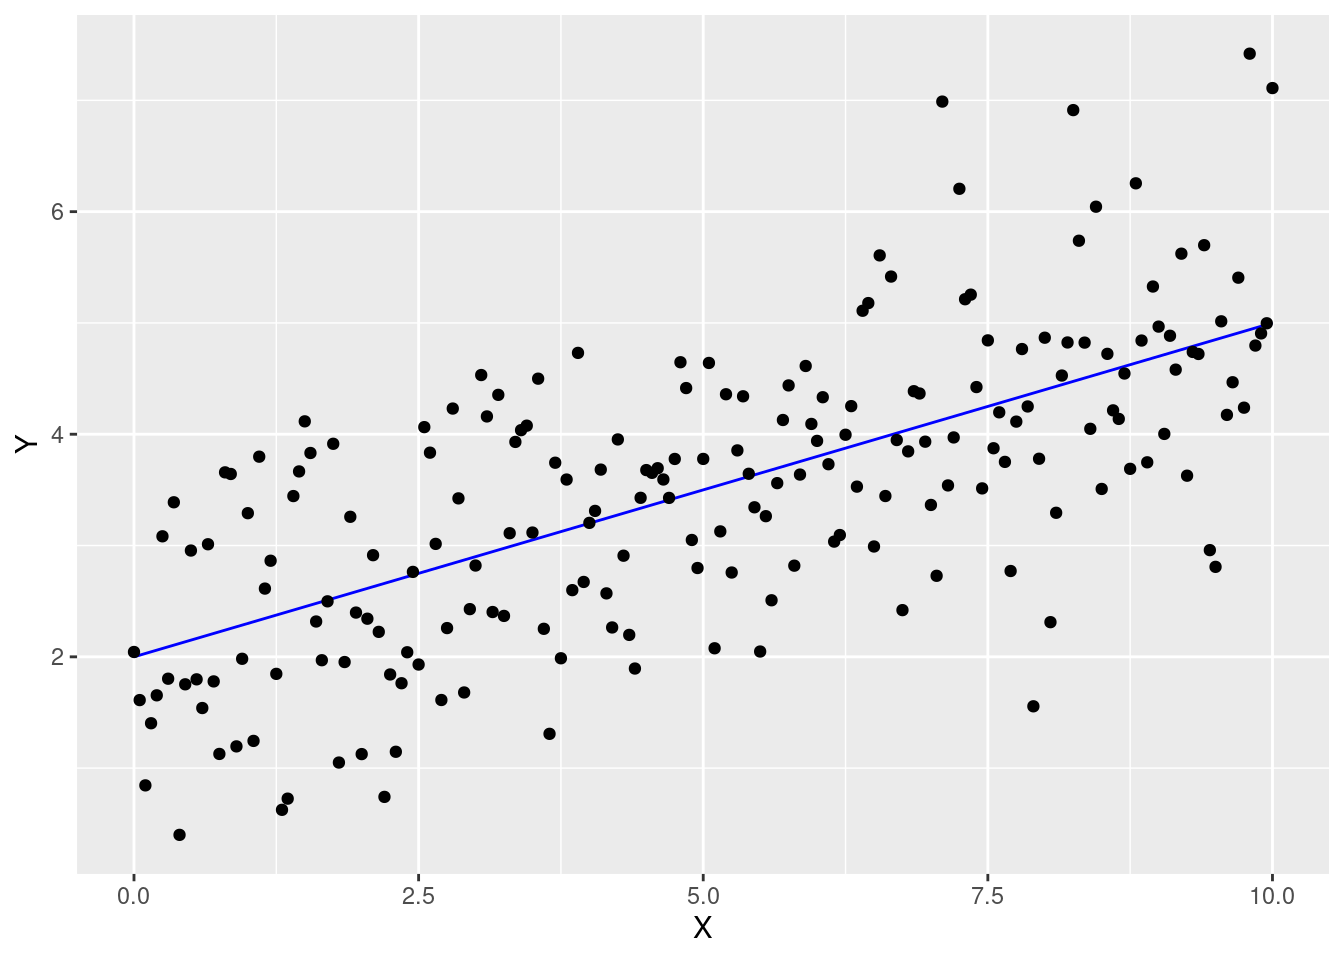
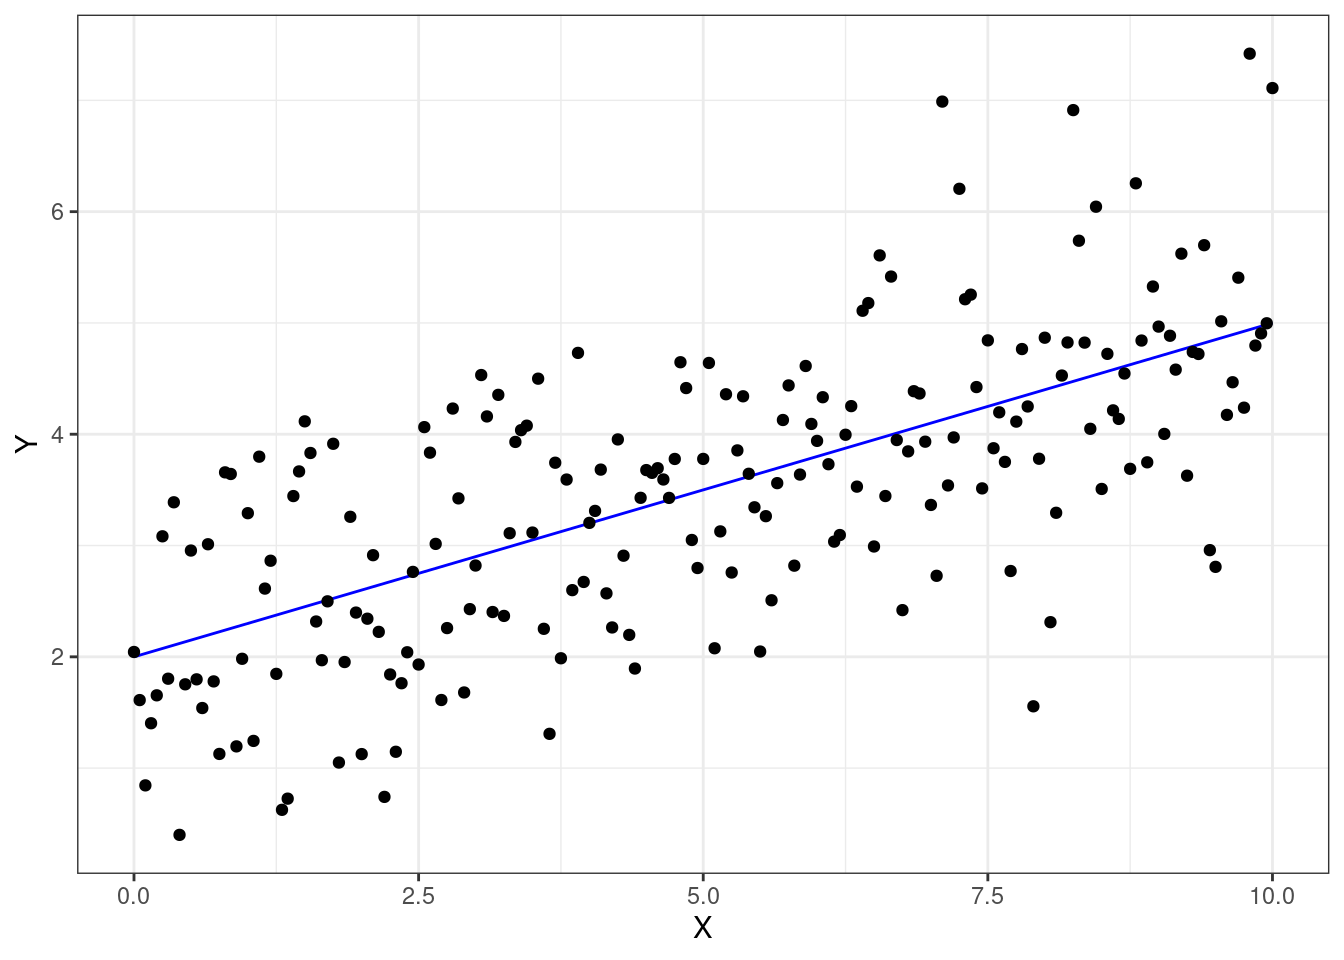
Correção da formatação do lab 1

diff --git a/docs/comandos-básicos-para-programação-com-r.html b/docs/comandos-básicos-para-programação-com-r.html
@@ -4,18 +4,18 @@
 
   <meta charset="utf-8" />
   <meta http-equiv="X-UA-Compatible" content="IE=edge" />
-  <title>Lab 1 Comandos básicos para programação com R | Estattśitica e Probabilidade para Finanças</title>
-  <meta name="description" content="Lab 1 Comandos básicos para programação com R | Estattśitica e Probabilidade para Finanças" />
+  <title>Lab 1 Comandos básicos para programação com R | Estatística e Probabilidade para Finanças</title>
+  <meta name="description" content="Lab 1 Comandos básicos para programação com R | Estatística e Probabilidade para Finanças" />
   <meta name="generator" content="bookdown 0.34 and GitBook 2.6.7" />
 
-  <meta property="og:title" content="Lab 1 Comandos básicos para programação com R | Estattśitica e Probabilidade para Finanças" />
+  <meta property="og:title" content="Lab 1 Comandos básicos para programação com R | Estatística e Probabilidade para Finanças" />
   <meta property="og:type" content="book" />
   
   
   
 
   <meta name="twitter:card" content="summary" />
-  <meta name="twitter:title" content="Lab 1 Comandos básicos para programação com R | Estattśitica e Probabilidade para Finanças" />
+  <meta name="twitter:title" content="Lab 1 Comandos básicos para programação com R | Estatística e Probabilidade para Finanças" />
   
   
   
@@ -137,7 +137,7 @@ code span.wa { color: #60a0b0; font-weight: bold; font-style: italic; } /* Warni
       <nav role="navigation">
 
 <ul class="summary">
-<li><a href="./">SHORT TITLE HERE</a></li>
+<li><a href="./">Estatística e Probabilidade para Finanças</a></li>
 
 <li class="divider"></li>
 <li class="chapter" data-level="" data-path="index.html"><a href="index.html"><i class="fa fa-check"></i>Informações preliminares</a></li>
@@ -163,7 +163,7 @@ code span.wa { color: #60a0b0; font-weight: bold; font-style: italic; } /* Warni
       <div class="body-inner">
         <div class="book-header" role="navigation">
           <h1>
-            <i class="fa fa-circle-o-notch fa-spin"></i><a href="./">Estattśitica e Probabilidade para Finanças</a>
+            <i class="fa fa-circle-o-notch fa-spin"></i><a href="./">Estatística e Probabilidade para Finanças</a>
           </h1>
         </div>
 
@@ -370,15 +370,16 @@ code span.wa { color: #60a0b0; font-weight: bold; font-style: italic; } /* Warni
 <span id="cb53-5"><a href="comandos-básicos-para-programação-com-r.html#cb53-5" aria-hidden="true" tabindex="-1"></a>eps <span class="ot">&lt;-</span> <span class="fu">rnorm</span>(<span class="dv">201</span>, <span class="at">mean =</span> <span class="dv">0</span>, <span class="at">sd =</span> <span class="dv">1</span>)</span>
 <span id="cb53-6"><a href="comandos-básicos-para-programação-com-r.html#cb53-6" aria-hidden="true" tabindex="-1"></a>Y <span class="ot">&lt;-</span> beta_0 <span class="sc">+</span> beta_1 <span class="sc">*</span> X</span></code></pre></div>
 <ol start="2" style="list-style-type: decimal">
-<li>Traçar os valores simulados.
-<strong>Resp.:</strong></li>
+<li>Traçar os valores simulados.</li>
 </ol>
+<p><strong>Resp.:</strong></p>
 <div class="sourceCode" id="cb54"><pre class="sourceCode r"><code class="sourceCode r"><span id="cb54-1"><a href="comandos-básicos-para-programação-com-r.html#cb54-1" aria-hidden="true" tabindex="-1"></a>df <span class="ot">&lt;-</span> <span class="fu">data.frame</span>(X, Y, eps)</span>
 <span id="cb54-2"><a href="comandos-básicos-para-programação-com-r.html#cb54-2" aria-hidden="true" tabindex="-1"></a></span>
 <span id="cb54-3"><a href="comandos-básicos-para-programação-com-r.html#cb54-3" aria-hidden="true" tabindex="-1"></a>df <span class="sc">%&gt;%</span></span>
 <span id="cb54-4"><a href="comandos-básicos-para-programação-com-r.html#cb54-4" aria-hidden="true" tabindex="-1"></a>  <span class="fu">ggplot</span>() <span class="sc">+</span></span>
 <span id="cb54-5"><a href="comandos-básicos-para-programação-com-r.html#cb54-5" aria-hidden="true" tabindex="-1"></a>    <span class="fu">geom_line</span>(<span class="fu">aes</span>(<span class="at">x=</span>X, <span class="at">y=</span>Y), <span class="at">colour=</span><span class="st">&quot;blue&quot;</span>)<span class="sc">+</span></span>
-<span id="cb54-6"><a href="comandos-básicos-para-programação-com-r.html#cb54-6" aria-hidden="true" tabindex="-1"></a>    <span class="fu">geom_point</span>(<span class="fu">aes</span>(<span class="at">x=</span>X, <span class="at">y=</span>Y<span class="sc">+</span>eps))</span></code></pre></div>
+<span id="cb54-6"><a href="comandos-básicos-para-programação-com-r.html#cb54-6" aria-hidden="true" tabindex="-1"></a>    <span class="fu">geom_point</span>(<span class="fu">aes</span>(<span class="at">x=</span>X, <span class="at">y=</span>Y<span class="sc">+</span>eps)) <span class="sc">+</span></span>
+<span id="cb54-7"><a href="comandos-básicos-para-programação-com-r.html#cb54-7" aria-hidden="true" tabindex="-1"></a>    <span class="fu">theme_bw</span>()</span></code></pre></div>
 <p><img src="main_files/figure-html/unnamed-chunk-26-1.png" width="672"  /></p>
 
 </div>

diff --git a/docs/index.html b/docs/index.html
@@ -4,18 +4,18 @@
 
   <meta charset="utf-8" />
   <meta http-equiv="X-UA-Compatible" content="IE=edge" />
-  <title>Estattśitica e Probabilidade para Finanças</title>
-  <meta name="description" content="Estattśitica e Probabilidade para Finanças" />
+  <title>Estatística e Probabilidade para Finanças</title>
+  <meta name="description" content="Estatística e Probabilidade para Finanças" />
   <meta name="generator" content="bookdown 0.34 and GitBook 2.6.7" />
 
-  <meta property="og:title" content="Estattśitica e Probabilidade para Finanças" />
+  <meta property="og:title" content="Estatística e Probabilidade para Finanças" />
   <meta property="og:type" content="book" />
   
   
   
 
   <meta name="twitter:card" content="summary" />
-  <meta name="twitter:title" content="Estattśitica e Probabilidade para Finanças" />
+  <meta name="twitter:title" content="Estatística e Probabilidade para Finanças" />
   
   
   
@@ -137,7 +137,7 @@ code span.wa { color: #60a0b0; font-weight: bold; font-style: italic; } /* Warni
       <nav role="navigation">
 
 <ul class="summary">
-<li><a href="./">SHORT TITLE HERE</a></li>
+<li><a href="./">Estatística e Probabilidade para Finanças</a></li>
 
 <li class="divider"></li>
 <li class="chapter" data-level="" data-path="index.html"><a href="index.html"><i class="fa fa-check"></i>Informações preliminares</a></li>
@@ -163,7 +163,7 @@ code span.wa { color: #60a0b0; font-weight: bold; font-style: italic; } /* Warni
       <div class="body-inner">
         <div class="book-header" role="navigation">
           <h1>
-            <i class="fa fa-circle-o-notch fa-spin"></i><a href="./">Estattśitica e Probabilidade para Finanças</a>
+            <i class="fa fa-circle-o-notch fa-spin"></i><a href="./">Estatística e Probabilidade para Finanças</a>
           </h1>
         </div>
 
@@ -172,7 +172,7 @@ code span.wa { color: #60a0b0; font-weight: bold; font-style: italic; } /* Warni
 
             <section class="normal" id="section-">
 <div id="header">
-<h1 class="title">Estattśitica e Probabilidade para Finanças</h1>
+<h1 class="title">Estatística e Probabilidade para Finanças</h1>
 <p class="author"><em>Igo da Costa Andrade</em></p>
 <p class="date"><em>2023-06-06</em></p>
 </div>

diff --git a/docs/a-caucus-race-and-a-long-tale.html b/docs/a-caucus-race-and-a-long-tale.html
@@ -4,18 +4,18 @@
 
   <meta charset="utf-8" />
   <meta http-equiv="X-UA-Compatible" content="IE=edge" />
-  <title>Lab 2 A caucus-race and a long tale | Estattśitica e Probabilidade para Finanças</title>
-  <meta name="description" content="Lab 2 A caucus-race and a long tale | Estattśitica e Probabilidade para Finanças" />
+  <title>Lab 2 A caucus-race and a long tale | Estatística e Probabilidade para Finanças</title>
+  <meta name="description" content="Lab 2 A caucus-race and a long tale | Estatística e Probabilidade para Finanças" />
   <meta name="generator" content="bookdown 0.34 and GitBook 2.6.7" />
 
-  <meta property="og:title" content="Lab 2 A caucus-race and a long tale | Estattśitica e Probabilidade para Finanças" />
+  <meta property="og:title" content="Lab 2 A caucus-race and a long tale | Estatística e Probabilidade para Finanças" />
   <meta property="og:type" content="book" />
   
   
   
 
   <meta name="twitter:card" content="summary" />
-  <meta name="twitter:title" content="Lab 2 A caucus-race and a long tale | Estattśitica e Probabilidade para Finanças" />
+  <meta name="twitter:title" content="Lab 2 A caucus-race and a long tale | Estatística e Probabilidade para Finanças" />
   
   
   
@@ -137,7 +137,7 @@ code span.wa { color: #60a0b0; font-weight: bold; font-style: italic; } /* Warni
       <nav role="navigation">
 
 <ul class="summary">
-<li><a href="./">SHORT TITLE HERE</a></li>
+<li><a href="./">Estatística e Probabilidade para Finanças</a></li>
 
 <li class="divider"></li>
 <li class="chapter" data-level="" data-path="index.html"><a href="index.html"><i class="fa fa-check"></i>Informações preliminares</a></li>
@@ -163,7 +163,7 @@ code span.wa { color: #60a0b0; font-weight: bold; font-style: italic; } /* Warni
       <div class="body-inner">
         <div class="book-header" role="navigation">
           <h1>
-            <i class="fa fa-circle-o-notch fa-spin"></i><a href="./">Estattśitica e Probabilidade para Finanças</a>
+            <i class="fa fa-circle-o-notch fa-spin"></i><a href="./">Estatística e Probabilidade para Finanças</a>
           </h1>
         </div>
 

diff --git a/docs/404.html b/docs/404.html
@@ -4,18 +4,18 @@
 
   <meta charset="utf-8" />
   <meta http-equiv="X-UA-Compatible" content="IE=edge" />
-  <title>Page not found | Estattśitica e Probabilidade para Finanças</title>
-  <meta name="description" content="Page not found | Estattśitica e Probabilidade para Finanças" />
+  <title>Page not found | Estatística e Probabilidade para Finanças</title>
+  <meta name="description" content="Page not found | Estatística e Probabilidade para Finanças" />
   <meta name="generator" content="bookdown 0.34 and GitBook 2.6.7" />
 
-  <meta property="og:title" content="Page not found | Estattśitica e Probabilidade para Finanças" />
+  <meta property="og:title" content="Page not found | Estatística e Probabilidade para Finanças" />
   <meta property="og:type" content="book" />
   
   
   
 
   <meta name="twitter:card" content="summary" />
-  <meta name="twitter:title" content="Page not found | Estattśitica e Probabilidade para Finanças" />
+  <meta name="twitter:title" content="Page not found | Estatística e Probabilidade para Finanças" />
   
   
   
@@ -137,7 +137,7 @@ code span.wa { color: #60a0b0; font-weight: bold; font-style: italic; } /* Warni
       <nav role="navigation">
 
 <ul class="summary">
-<li><a href="./">SHORT TITLE HERE</a></li>
+<li><a href="./">Estatística e Probabilidade para Finanças</a></li>
 
 <li class="divider"></li>
 <li class="chapter" data-level="" data-path="index.html"><a href="index.html"><i class="fa fa-check"></i>Informações preliminares</a></li>
@@ -163,7 +163,7 @@ code span.wa { color: #60a0b0; font-weight: bold; font-style: italic; } /* Warni
       <div class="body-inner">
         <div class="book-header" role="navigation">
           <h1>
-            <i class="fa fa-circle-o-notch fa-spin"></i><a href="./">Estattśitica e Probabilidade para Finanças</a>
+            <i class="fa fa-circle-o-notch fa-spin"></i><a href="./">Estatística e Probabilidade para Finanças</a>
           </h1>
         </div>
 

diff --git a/docs/main.tex b/docs/main.tex
@@ -146,12 +146,12 @@
 \IfFileExists{xurl.sty}{\usepackage{xurl}}{} % add URL line breaks if available
 \urlstyle{same} % disable monospaced font for URLs
 \hypersetup{
-  pdftitle={Estattśitica e Probabilidade para Finanças},
+  pdftitle={Estatística e Probabilidade para Finanças},
   pdfauthor={Igo da Costa Andrade},
   hidelinks,
   pdfcreator={LaTeX via pandoc}}
 
-\title{Estattśitica e Probabilidade para Finanças}
+\title{Estatística e Probabilidade para Finanças}
 \author{Igo da Costa Andrade}
 \date{2023-06-06}
 
@@ -670,8 +670,9 @@ onde \(\beta_0 = 2\), \(\beta_1 = 0,3\) e \(\varepsilon\) é uma distribuição 
 \tightlist
 \item
   Traçar os valores simulados.
-  \textbf{Resp.:}
 \end{enumerate}
+
+\textbf{Resp.:}
 
 \begin{Shaded}
 \begin{Highlighting}[]
@@ -680,7 +681,8 @@ onde \(\beta_0 = 2\), \(\beta_1 = 0,3\) e \(\varepsilon\) é uma distribuição 
 \NormalTok{df }\SpecialCharTok{\%\textgreater{}\%}
   \FunctionTok{ggplot}\NormalTok{() }\SpecialCharTok{+}
     \FunctionTok{geom\_line}\NormalTok{(}\FunctionTok{aes}\NormalTok{(}\AttributeTok{x=}\NormalTok{X, }\AttributeTok{y=}\NormalTok{Y), }\AttributeTok{colour=}\StringTok{"blue"}\NormalTok{)}\SpecialCharTok{+}
-    \FunctionTok{geom\_point}\NormalTok{(}\FunctionTok{aes}\NormalTok{(}\AttributeTok{x=}\NormalTok{X, }\AttributeTok{y=}\NormalTok{Y}\SpecialCharTok{+}\NormalTok{eps))}
+    \FunctionTok{geom\_point}\NormalTok{(}\FunctionTok{aes}\NormalTok{(}\AttributeTok{x=}\NormalTok{X, }\AttributeTok{y=}\NormalTok{Y}\SpecialCharTok{+}\NormalTok{eps)) }\SpecialCharTok{+}
+    \FunctionTok{theme\_bw}\NormalTok{()}
 \end{Highlighting}
 \end{Shaded}
 
